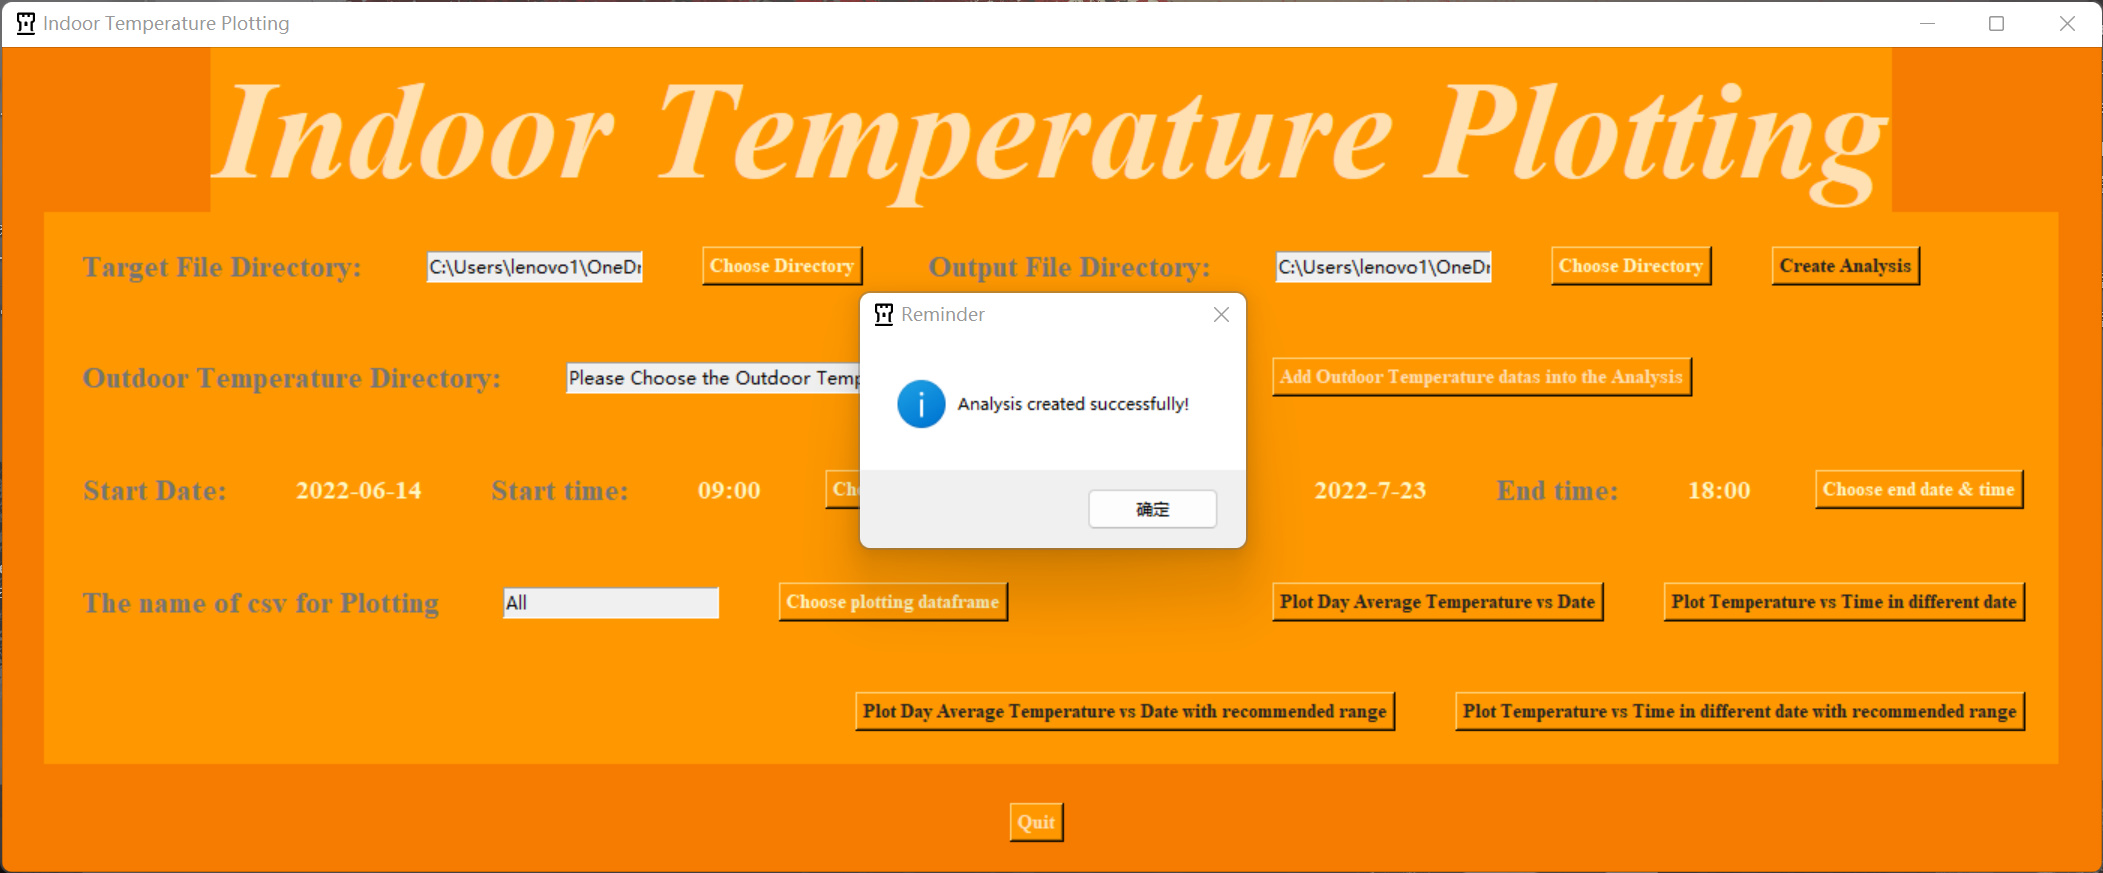
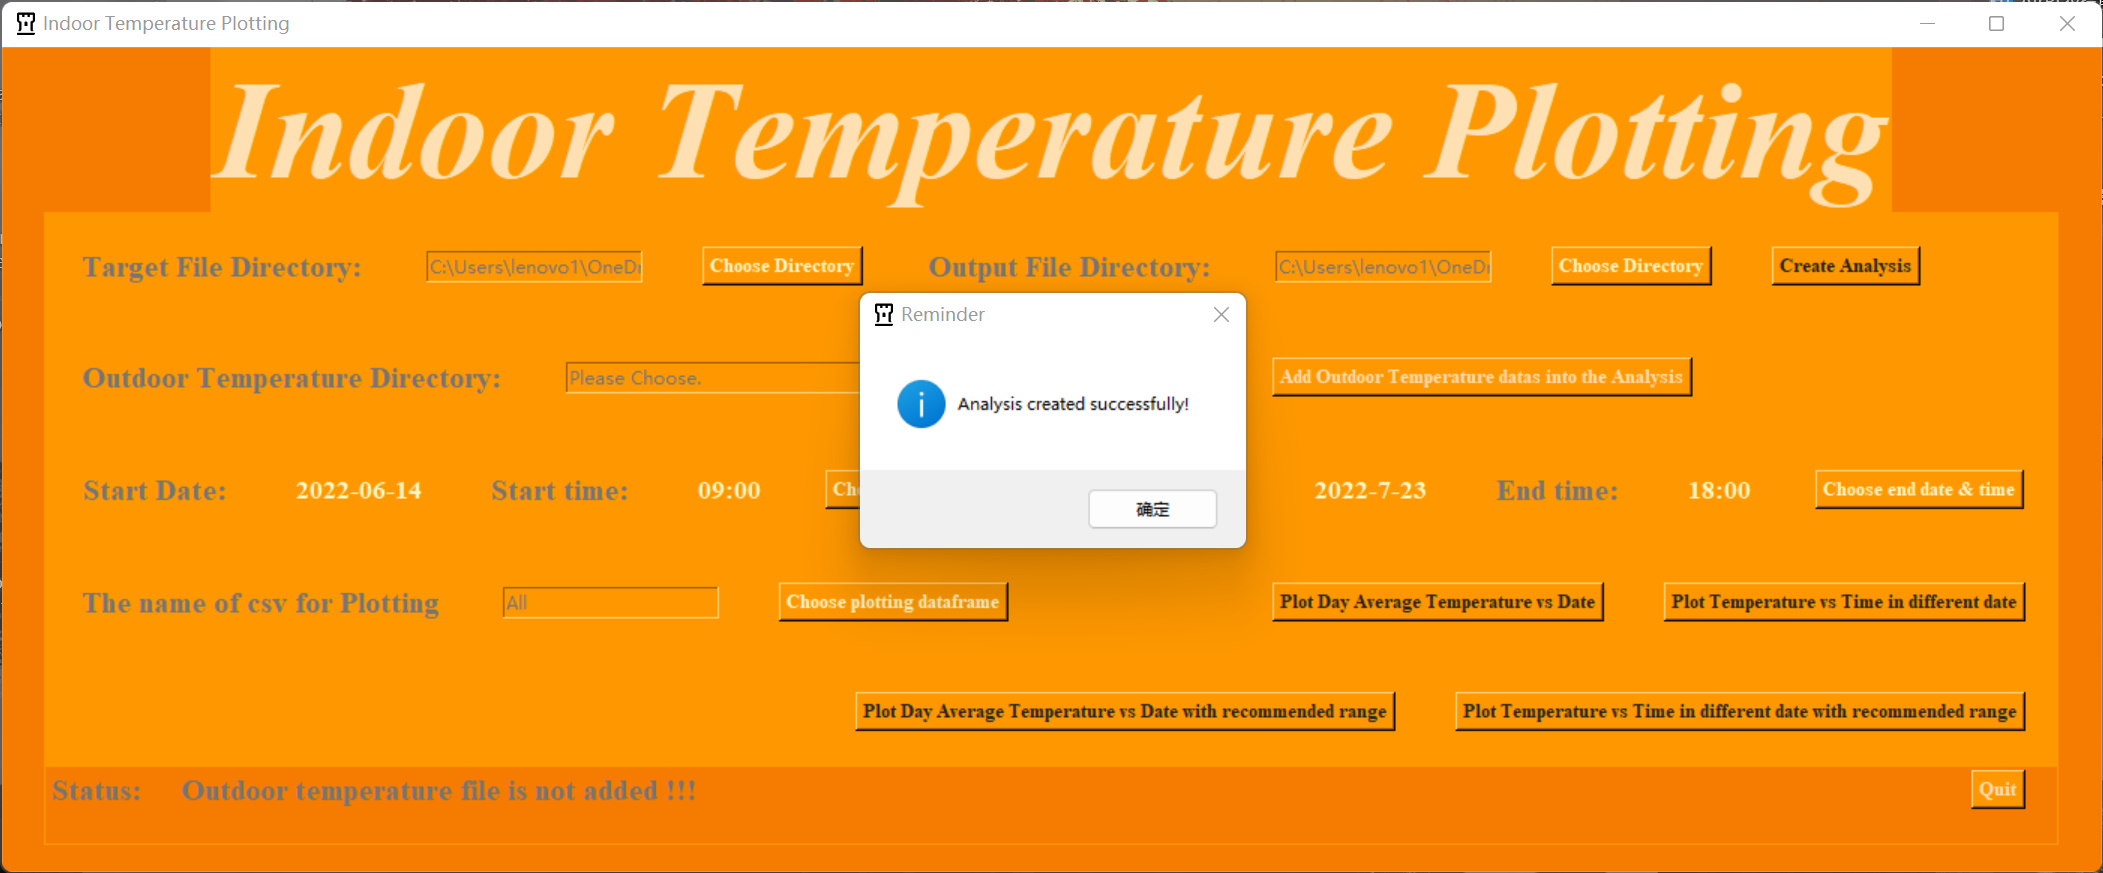
Example Updated

diff --git a/coursework_part4_data_processing_and_visualization/User's Guide.md b/coursework_part4_data_processing_and_visualization/User's Guide.md
@@ -11,7 +11,7 @@
 
 #### Method from CIBSE TM52 The limits of thermal comfort: avoiding overheating in European buildings to get the indoor temperature recommended range.
   * The equation for calculating comfort temperature:
-   $$ T_{comf}=0.33T_{rm}+18.8 $$
+    $$ T_{comf}=0.33T_{rm}+18.8 $$
   * Where: $T_{comf}$ is Comfort Temperature, $T_{rm}$ is Running mean outdoor air temperature.
   * For normal expectation, the suggested accpetable range is plus or minus $3K$.
   * For normal expectation, the suggested accpetable range is $_{\pm }3K$. In addition, Upper Limit Temperature can be calculated as Comfort Temperature +7K.
@@ -80,13 +80,15 @@
   * Outdoor temperature csv file.
     * In this file, the column names should be defined as below:
       * [Temperature(C), Date,	Comfortable Temperature	Max Acceptable Temperature,	Min Acceptable Temperature,	Upper Limit Temperature]
-      * PHOTO !!!
+      ![Outdoor_csv](/GuideScreenshot/Outdoor_csv.jpg "Outdoor_csv")
   * The csv files need to be analysed.
     * All these files should be stored in a folder, and there are no other files in this folder.
-    * PHOTO !!!
+      ![Sample_dir](/GuideScreenshot/Sample_dir.jpg "Sample_dir")
 
   ### 2. Run the GUI_main.py file with Python 3.
-  * Main window will be shown like this.
+  * Make sure your terminal is in the right working directory.
+    ![Working_dir](/GuideScreenshot/Working_dir.jpg "Working_dir")
+  * Main window will be shown like this. The status message at the left bottom tells you that you need create an analysis first.
     ![Main Window](/GuideScreenshot/Main_Window.jpg "Main Window")
   ### 3. Choose Target File Directory.
   * Click the "Choose Directory" button and choose the directory.
@@ -99,26 +101,31 @@
   * A message will be shown up to remind the directory you chose.
     ![Output Directory msg](/GuideScreenshot/Output_dir_msg.jpg "Output_dir_msg")    
   ### 5. Create Analysis
-  * Click Create Analysis button, and a messahe will shown up to remind you.
+  * Click Create Analysis button, and a messahe will shown up to remind you. Besides, the status will change and it will remind you that the outdoor temperature file is not added.
     ![Analysis_msg](/GuideScreenshot/Analysis_msg.jpg "Analysis_msg")
   ### 6. Choose Outdoor Temperature File Directory and add into the Analysis.
   * Click the "Choose Directory" button and choose the directory.
     ![Outdoor Directory](/GuideScreenshot/Outdoor_dir.jpg "Outdoor_dir")
   * A success message will pop up after choosing.
     ![Outdoor Directory msg](/GuideScreenshot/Outdoor_dir_msg.jpg "Outdoor_dir_msg")
-  * Click "Add Outdoor Temperature datas into the Analysis", and then a success message will pop up.
+  * Click "Add Outdoor Temperature datas into the Analysis", and then a success message will pop up. Besides, the status will change to "Plotting is ready".
     ![Outdoor Add msg](/GuideScreenshot/Outdoor_add_msg.jpg "Outdoor_add_msg")
 ### 7. Choose Start Date & Time.
   * Click the "Choose start date & time" button and choose the start date & time.
+  * Default value: 2022-6-14, 9:00
     ![Start_date_choice](/GuideScreenshot/Start_date_choice.jpg "Start_date_choice")
 ### 8. Choose End Date & Time.
   * Click the "Choose end date & time" button and choose the end date & time. (The same as last step)
+  * Default value: 2022-7-23, 18:00
     ![End_date_choice](/GuideScreenshot/End_date_choice.jpg "End_date_choice")
 ### 9. Choose the name of csv for Plotting.
   * Click the "Choose plotting dataframe" button and choose the name of dataframe. "All" means all the dataframes will be plotted.
     ![csv_plot](/GuideScreenshot/csv_plot.jpg "csv_plot")
-  * If you do not want to plot all the dataframes, please click "All" to refresh the choosing box first. You need to make sure there is no "All" in the choosing box.
+  * If you do not want to plot all the dataframes, please click "All" to refresh the choosing box first. You need to make sure there is no "All" in the choosing box. Multiple choices are also acceptable.
     ![csv_plot_single](/GuideScreenshot/csv_plot_single.jpg "csv_plot_single")
+    ![csv_plot_multiple](/GuideScreenshot/csv_plot_multiple.jpg "csv_plot_multiple")
+  * Click "Quit" and a message will pop up to show the names you have chosen.
+    ![choose_quit](/GuideScreenshot/choose_quit.jpg "choose_quit")
 ### 10. Plotting
   * Plot Day Average Temperature vs Date
     * Click "Plot Day Average Temperature vs Date" button, and a graph will shown up and it is also saved in output directory.
@@ -136,8 +143,10 @@
     * Click "Plot Temperature vs Time in different date with recommended range" button, and a graph will shown up and it is also saved in output directory.
     * Here is an example:
       ![Time_reco](/GuideScreenshot/Time_reco.jpg "Time_reco")
+  * Your output directory should be looked like this:
+    ![Output_plotting](/GuideScreenshot/Output_plotting.jpg "Output_plotting")
 ### 11. Quit
-  * Click "Quit" button, there will be a goodbye message and quit this program.
+  * Click "Quit" button, a goodbye message will be shown up and this program will be quited.
     ![Quit](/GuideScreenshot/Quit.jpg "Quit")
 
-Quick link: [PRD](coursework_part4_data_processing_and_visualization/Product%20requirement%20document%20(PRD).md ':include'), [README](../README.md ':include')
+Quick link: [PRD](Product%20requirement%20document%20(PRD).md ':include'), [README](../README.md ':include')

diff --git a/coursework_part4_data_processing_and_visualization/Product requirement document (PRD).md b/coursework_part4_data_processing_and_visualization/Product requirement document (PRD).md
@@ -22,7 +22,7 @@
     * Generate recommended range. (CSET, PMB data, or other similar structure data)
       * Method from CIBSE TM52 The limits of thermal comfort: avoiding overheating in European buildings
         * The equation for calculating comfort temperature:
-         $$ T_{comf}=0.33T_{rm}+18.8 $$
+          $$ T_{comf}=0.33T_{rm}+18.8 $$
         * Where: $T_{comf}$ is Comfort Temperature, $T_{rm}$ is Running mean outdoor air temperature.
         * For normal expectation, the suggested accpetable range is $_{\pm }3K$. In addition, Upper Limit Temperature can be calculated as Comfort Temperature +7K.
         * Running mean outdoor air temperature data is from outdoor temperature csv file.
@@ -41,4 +41,4 @@
 ## 3. Similar products in the market
     Excel, Tableau, Knime
 
-Quick link: [User's Guide](coursework_part4_data_processing_and_visualization/User's%20Guide.md  ':include'), [README](../README.md ':include')
+Quick link: [User's Guide](User's%20Guide.md  ':include'), [README](../README.md ':include')
